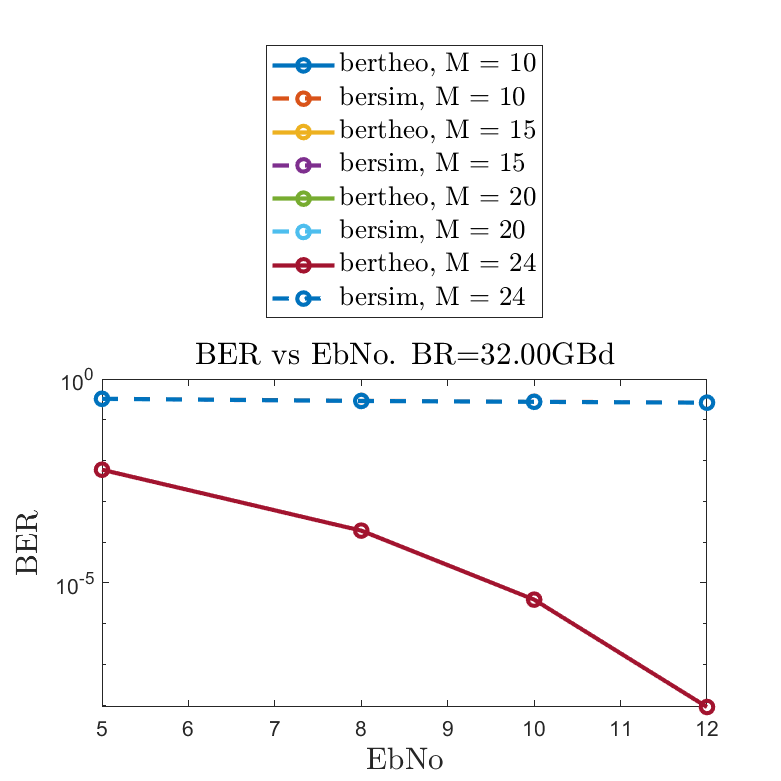
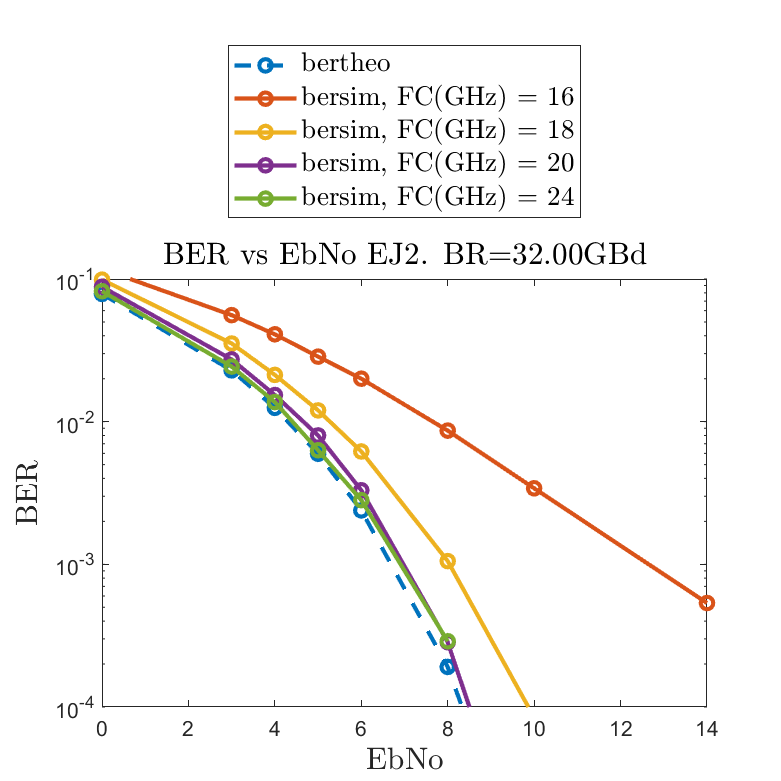
Ejercicio 4

diff --git a/Comunicaciones_Digitales/Simulador/m_simulatortp5.m b/Comunicaciones_Digitales/Simulador/m_simulatortp5.m
@@ -13,30 +13,30 @@ close all
     %--------------------------%
 
     % -- General --
-    config_s.en_plots = 1;
+    config_s.en_plots = 0;
 
     % -- Tx --
     config_s.tx_s.BR = 32e9;                    % Baud rate
     config_s.tx_s.M = 4;                       % Cantidad de niveles de la modulacion
-    config_s.tx_s.NOS = 4;                      % Tasa de sobremuestreo
+    config_s.tx_s.NOS = 2;                      % Tasa de sobremuestreo
     config_s.tx_s.Lsymbs = 1e6;                 % Cantidad de simbolos
     config_s.tx_s.rolloff = 0.5;                % Rolloff del filtro conformador
     config_s.tx_s.pulse_shaping_ntaps = 201;    % Cantidad de taps del PS
     config_s.tx_s.pulse_shaping_type = 0;       % 0: RRC, 1: RC
     %ch
-    config_s.ch_awgn.EbNo_db =3; 
+    config_s.ch_awgn.EbNo_db =10; 
     config_s.ch_awgn.ISE = 1; %1 activada, 0 desacticada
     config_s.ch_awgn.firorder = 17;
-    config_s.ch_awgn.fc = 16e9;
+    config_s.ch_awgn.fc = 20e9;
     %AGC
     config_s.agc.target = 0.3;
     config_s.agc.adc_phase = 1;
     %Ecualizador Adaptivo
-    config_s.ec_s.ntap = 63; 
+    config_s.ec_s.ntaps = 63; 
     config_s.ec_s.N =2;        
     config_s.ec_s.step_cma=2^-11;
     config_s.ec_s.step_dd=2^-11;
-    config_s.ec_s.tap_leak_gain=1e-10;
+    config_s.ec_s.tap_leak_gain=1e-7;
     config_s.ec_s.force_cma_enable=0;
     
     
@@ -96,7 +96,7 @@ title('Parte Imaginaria')
  %mismo 
      figure %b
 
-      NFFT=1024;
+      NFFT=1024*config_s.tx_s.NOS;
       fs=config_s.tx_s.BR*config_s.tx_s.NOS;
       CH =fftshift(fft(Chanel_F, NFFT));
       CH=CH/CH(NFFT/2);
@@ -112,11 +112,18 @@ title('Parte Imaginaria')
       plot(f/1e9, 20*log10(abs(A)),'-g', 'Linewidth',2);
        
        xlabel('Frequency [GHz]')
-       ylabel('PSD Magnitude ')
+       ylabel('Msgnitude[dB] ')
        ylim([-100,20]);
        title('Respuesta En Frecuencia')
        set(gcf, 'Position', [50 50 500 500],'Color', 'w');
-       legend({'Respuesta del canal','Respusta del Ecualizador','Respuesta de La convolucion'},'Location','s') 
+       legend({'Respuesta del canal','Respusta del Ecualizador','Respuesta de la convolucion CH*EC'},'Location','s');
+       
+       figure
+       plot(abs(o_ec_s.coeffs));
+       title('Coeffs');
+       grid on;
+       xlabel('Tiempo [samples]');
+       ylabel('Coeffs Amplitude');
     end
     
     o_data_s.ber_theo = ber_check.ber_theo;

diff --git a/Comunicaciones_Digitales/Simulador/sim_tests/modulation_ordeer/mod_order_sweep.m b/Comunicaciones_Digitales/Simulador/sim_tests/modulation_ordeer/mod_order_sweep.m
@@ -1,5 +1,6 @@
 clear
-
+close all 
+clc
 %% Output directory
 
 out_dir = mfilename('fullpath');
@@ -12,37 +13,36 @@ end
 
 %% General configuration
 
- % -- General --
     config_s.en_plots = 0;
 
     % -- Tx --
     config_s.tx_s.BR = 32e9;                    % Baud rate
     config_s.tx_s.M = 4;                       % Cantidad de niveles de la modulacion
-    config_s.tx_s.NOS = 4;                      % Tasa de sobremuestreo
+    config_s.tx_s.NOS = 2;                      % Tasa de sobremuestreo
     config_s.tx_s.Lsymbs = 1e6;                 % Cantidad de simbolos
     config_s.tx_s.rolloff = 0.5;                % Rolloff del filtro conformador
     config_s.tx_s.pulse_shaping_ntaps = 201;    % Cantidad de taps del PS
     config_s.tx_s.pulse_shaping_type = 0;       % 0: RRC, 1: RC
     %ch
-    config_s.ch_awgn.EbNo_db = 3; 
+    config_s.ch_awgn.EbNo_db =10; 
     config_s.ch_awgn.ISE = 1; %1 activada, 0 desacticada
     config_s.ch_awgn.firorder = 17;
-    config_s.ch_awgn.fc = 16e9;
+    config_s.ch_awgn.fc = 20e9;
     %AGC
     config_s.agc.target = 0.3;
     config_s.agc.adc_phase = 1;
     %Ecualizador Adaptivo
-    config_s.ec_s.ntap = 63; 
+    config_s.ec_s.ntaps = 63; 
     config_s.ec_s.N =2;        
     config_s.ec_s.step_cma=2^-11;
     config_s.ec_s.step_dd=2^-11;
-    config_s.ec_s.tap_leak_gain=1e-4;
+    config_s.ec_s.tap_leak_gain=1e-7;
     config_s.ec_s.force_cma_enable=0;
-%% Sweep
+    %% Sweep
 
-fc_v = [10 15 20 24];
+fc_v = [16e9 18e9 20e9 24e9];
 n_fc = length(fc_v);
-EbNo_v=[5 8 10 12];
+EbNo_v=[0 3 4 5 6 8 10 14];
 n_EbNo = length(EbNo_v);
 
 out_c = cell(n_EbNo, n_fc); 
@@ -58,6 +58,7 @@ for idx_fc = 1:n_fc
     cfg_s.ch_awgn.EbNo_db =EbNo_v(idx_EbNo);
     cfg_s.ch_awgn.fc =fc_v(idx_fc);
     out_c{idx_EbNo,idx_fc} = m_simulatortp5(cfg_s);
+    fprintf('- bertheo %d \n - bersim %d \n', out_c{idx_EbNo,idx_fc}.ber_theo,out_c{idx_EbNo,idx_fc}.ber_sim)
     end
 
 end

diff --git a/Comunicaciones_Digitales/Simulador/sim_tests/modulation_ordeer/mod_order_proc.m b/Comunicaciones_Digitales/Simulador/sim_tests/modulation_ordeer/mod_order_proc.m
@@ -35,21 +35,21 @@ for idx_fc = 1:n_fc
 end
 %%
 figure;
-for idx_fc = 1:n_fc
-semilogy(EbNo_v, ber_theo_v(:,idx_fc), 'o-', 'DisplayName', ['bertheo, M = ', num2str(fc_v(idx_fc))], 'LineWidth', 2);
+semilogy(EbNo_v, ber_theo_v(:,1), '--o', 'DisplayName', ['bertheo'], 'LineWidth', 2);
 hold on
-semilogy(EbNo_v, ber_sim_v(:,idx_fc), '--o', 'DisplayName', ['bersim, M = ', num2str(fc_v(idx_fc))], 'LineWidth', 2);
+for idx_fc = 1:n_fc
+semilogy(EbNo_v, ber_sim_v(:,idx_fc), 'o-', 'DisplayName', ['bersim, FC(GHz) = ', num2str(fc_v(idx_fc)/1e9)], 'LineWidth', 2);
 end
 
 % for idx_EbNo = 1:n_EbNo
 %     plot(M_v, ber_sim_v(idx_EbNo,:), '--o', 'DisplayName', ['bersim, EbNo = ', num2str(EbNo_v(n_EbNo))], 'LineWidth', 1);
 % end
 
-
-tit = sprintf('BER vs EbNo. BR=%.2fGBd', config_s.tx_s.BR/1e9);
+tit = sprintf('BER vs EbNo EJ2. BR=%.2fGBd', config_s.tx_s.BR/1e9);
 title(tit, 'Interpreter','latex','FontSize', fz);
 xlabel('EbNo', 'Interpreter','latex','FontSize', fz);
 ylabel('BER', 'Interpreter','latex','FontSize', fz);
+ylim([1e-4,0.1]);
 legend({},'Location','no','Interpreter','latex','FontSize', fz-2);
 set(gcf, 'Position', [50 50 500 500],'Color', 'w');
 saveas(gcf,[out_dir,sprintf('figure.png')]);

diff --git a/Comunicaciones_Digitales/Simulador/src/Ecualizador.m b/Comunicaciones_Digitales/Simulador/src/Ecualizador.m
@@ -5,7 +5,7 @@ function [o_data_s] = Ecualizador(i_config_s,rx_norm,RCMA)
 %--------------------------%
 %% ECUALIZADOR FSE 
 % Vamos a empezar solo con DD (slicer) sin FCR (carrier recovery)
-config.NTAPS = 63; % Por comodidad impar
+config.ntaps = 63; % Por comodidad impar
 config.step_cma = 2^-11;%2e-3;
 config.step_dd = 2^(-9);
 config.tap_leak_gain = 1e-4;%1e-3;
@@ -17,12 +17,12 @@ config.M=4;
  %       REASSIGNMENT
  %--------------------------%
 
-    fn = fieldnames(i_config_s);
+   fn = fieldnames(i_config_s);
     for k = 1:numel(fn)
         if isfield(config,(fn{k}))==1
             config.(fn{k})= i_config_s.(fn{k});
         else
-            %error("%s: Parametro del simulador no valido", fn{k})
+            fprintf("%s: Parametro del simulador no valido", fn{k})
         end
     end
 
@@ -30,7 +30,7 @@ config.M=4;
     %--------------------------%
     %         VARIABLES
     %--------------------------%
-NTAPS=config.NTAPS;
+NTAPS=config.ntaps;
 step_cma=config.step_cma; 
 step_dd=config.step_dd;
 tap_leak_gain=config.tap_leak_gain; 
@@ -100,3 +100,4 @@ for m=1:Lrx
 end
 o_data_s.yk=yk;
 o_data_s.W=W;%Ecualizador convergido
+o_data_s.coeffs=coeffs;%Ecualizador convergido

diff --git a/Comunicaciones_Digitales/scripts/LMS_equalizer_dos_tasas.m b/Comunicaciones_Digitales/scripts/LMS_equalizer_dos_tasas.m
@@ -168,7 +168,7 @@ f = -fs/2:fstep:fs/2-fstep;
 figure
 plot(f, abs(fftshift(fft(W,NFFT))));
 title('Modulo de la rta. en fcia. del FFE')
-
+%%
 figure
 mse = abs(error).^2;
 mse = filter(ones(1e3,1)./1e3, 1, mse);
